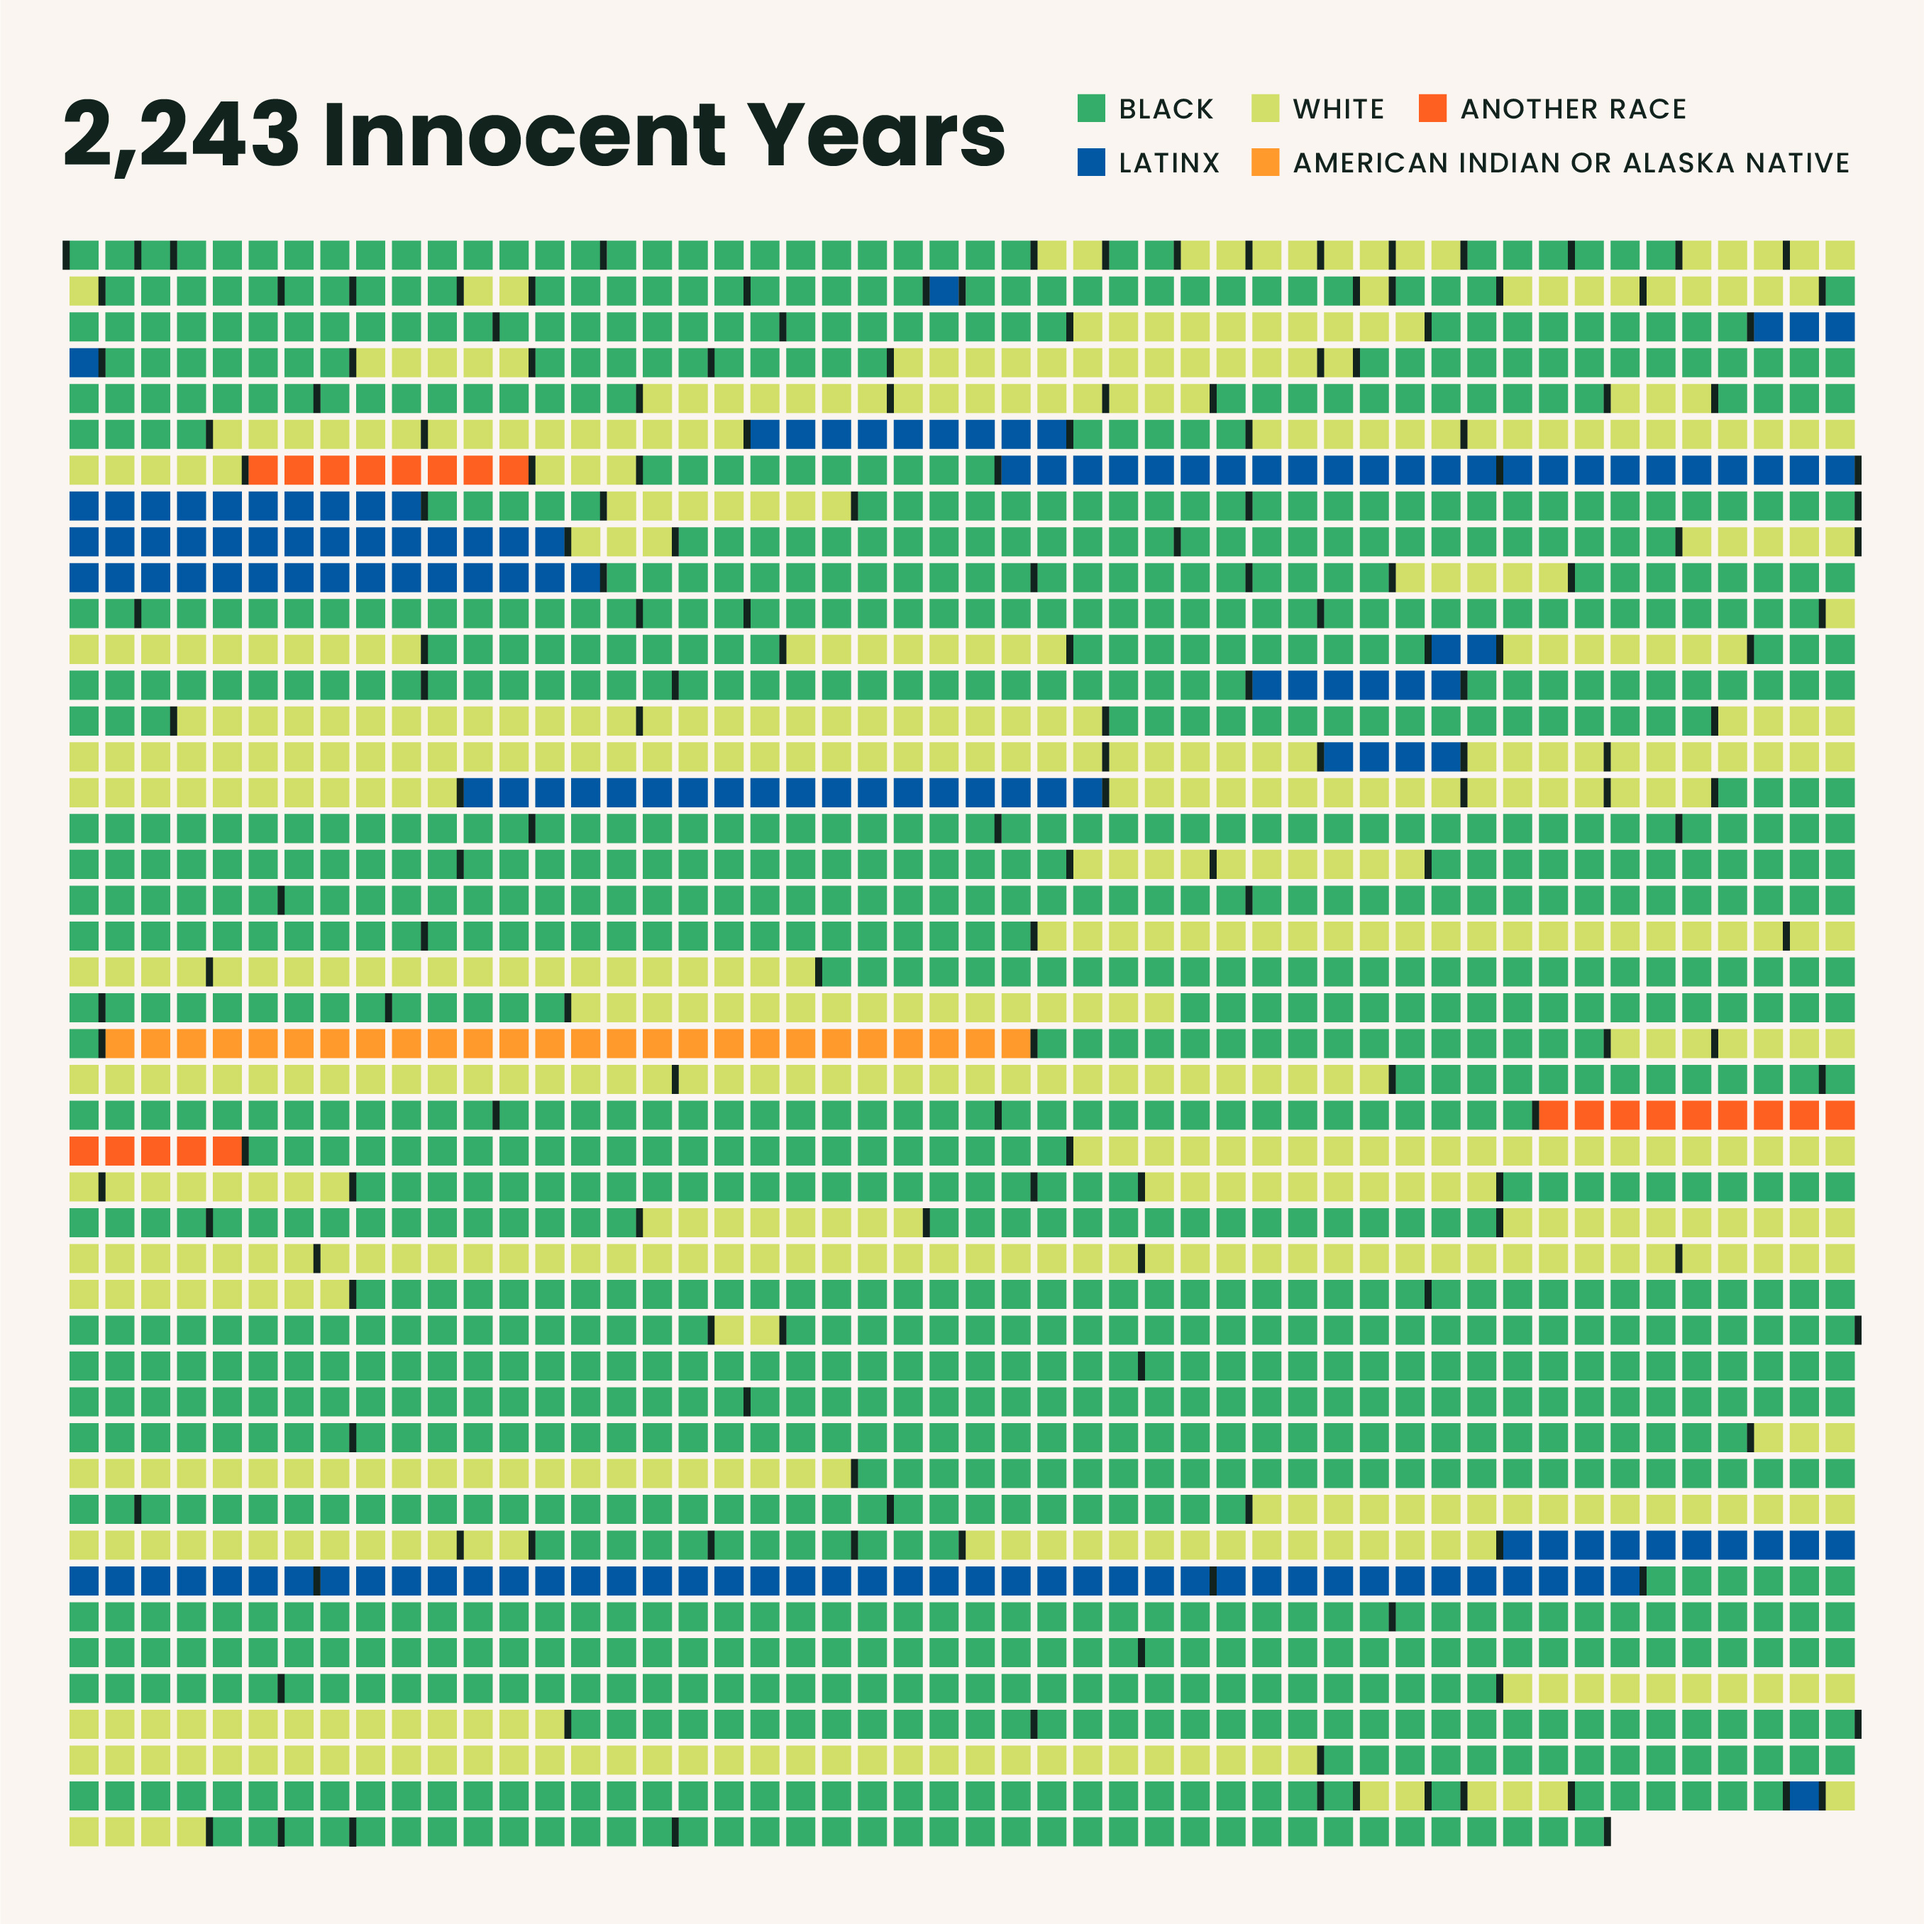
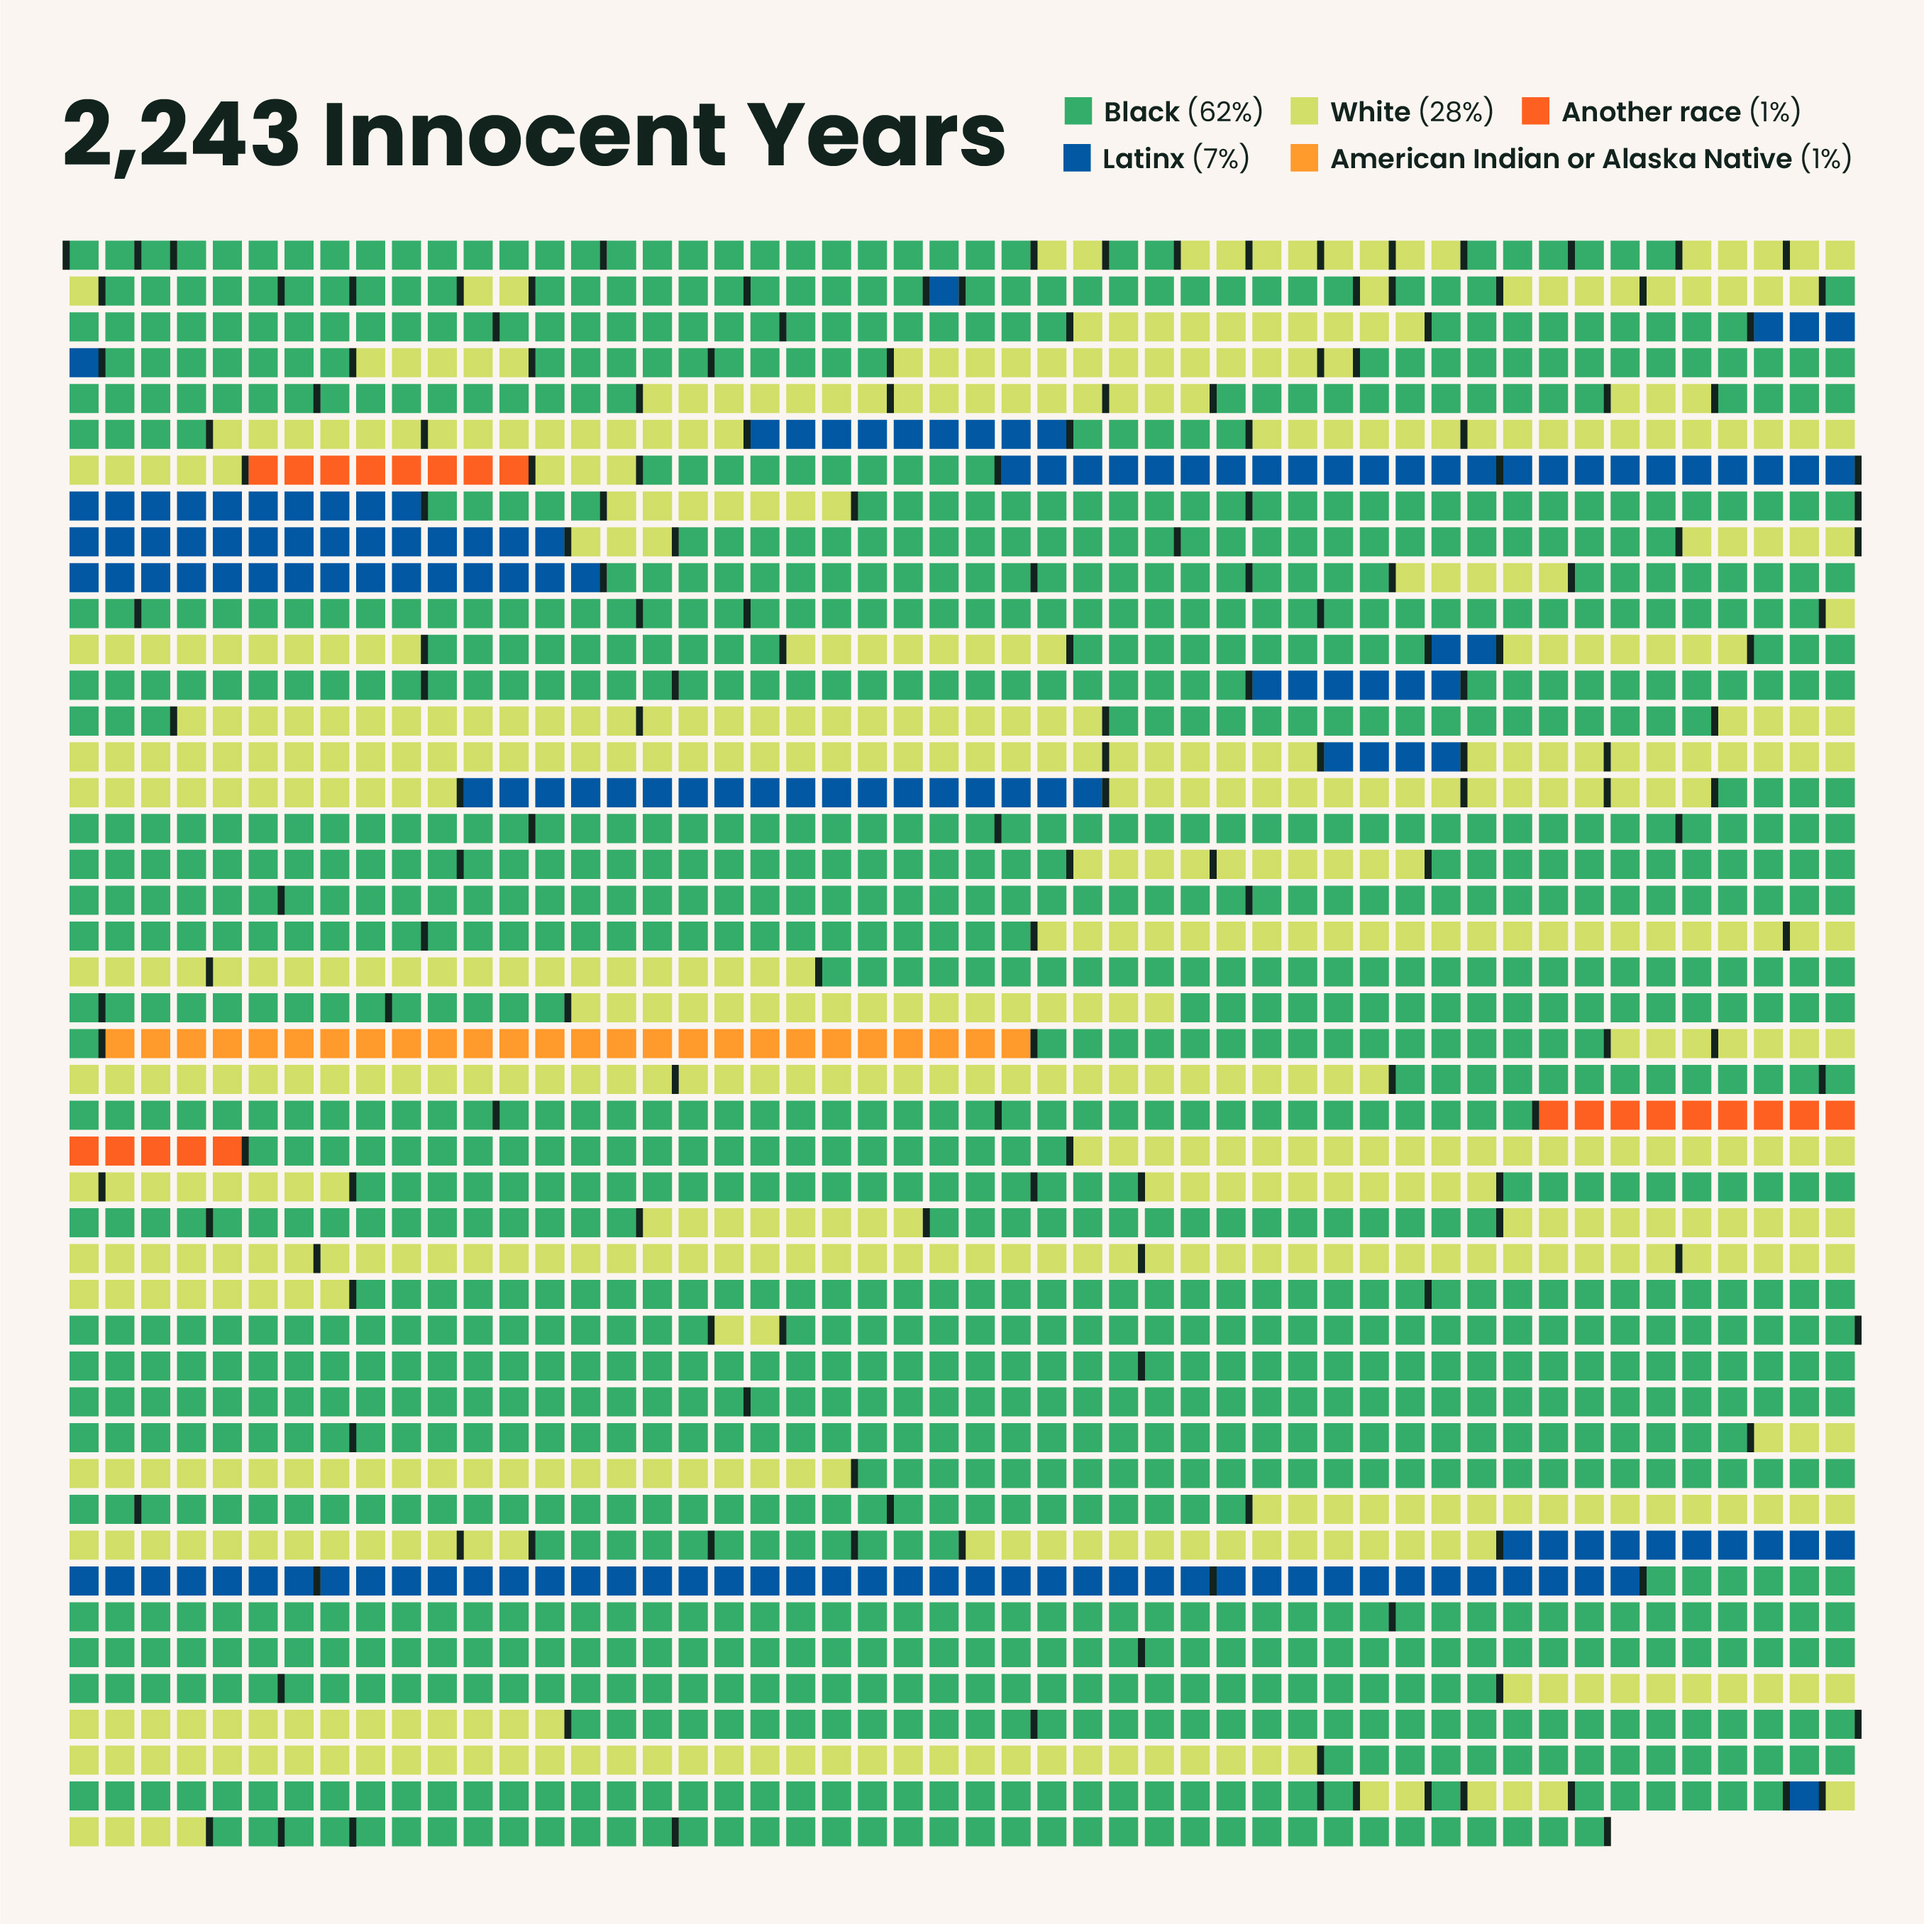
Remove unused slug page and fix build errors - Delete [slug] page.tsx (no longer needed) - Remove unused Chip import from about page - Remove unused skills array from about page - Clean up TypeScript linting issues

Changed region(s): [[0.5575, 0.031, 0.9602, 0.0929]]

diff --git a/src/app/about/page.tsx b/src/app/about/page.tsx
@@ -1,7 +1,6 @@
 "use client";
 
 import Image from 'next/image';
-import Chip from '@/components/Chip';
 
 const recommendedReads = [
   {
@@ -27,16 +26,6 @@ const recommendedReads = [
 ];
 
 export default function About() {
-  const skills = [
-    "Data Visualization",
-    "UX/UI",
-    "Storytelling",
-    "Product Design",
-    "Journey Maps",
-    "Service Design",
-    "Art Direction",
-    "Workshops & Facilitation"
-  ];
 
   const fastFacts = [
     "Based in Denver, CO",
